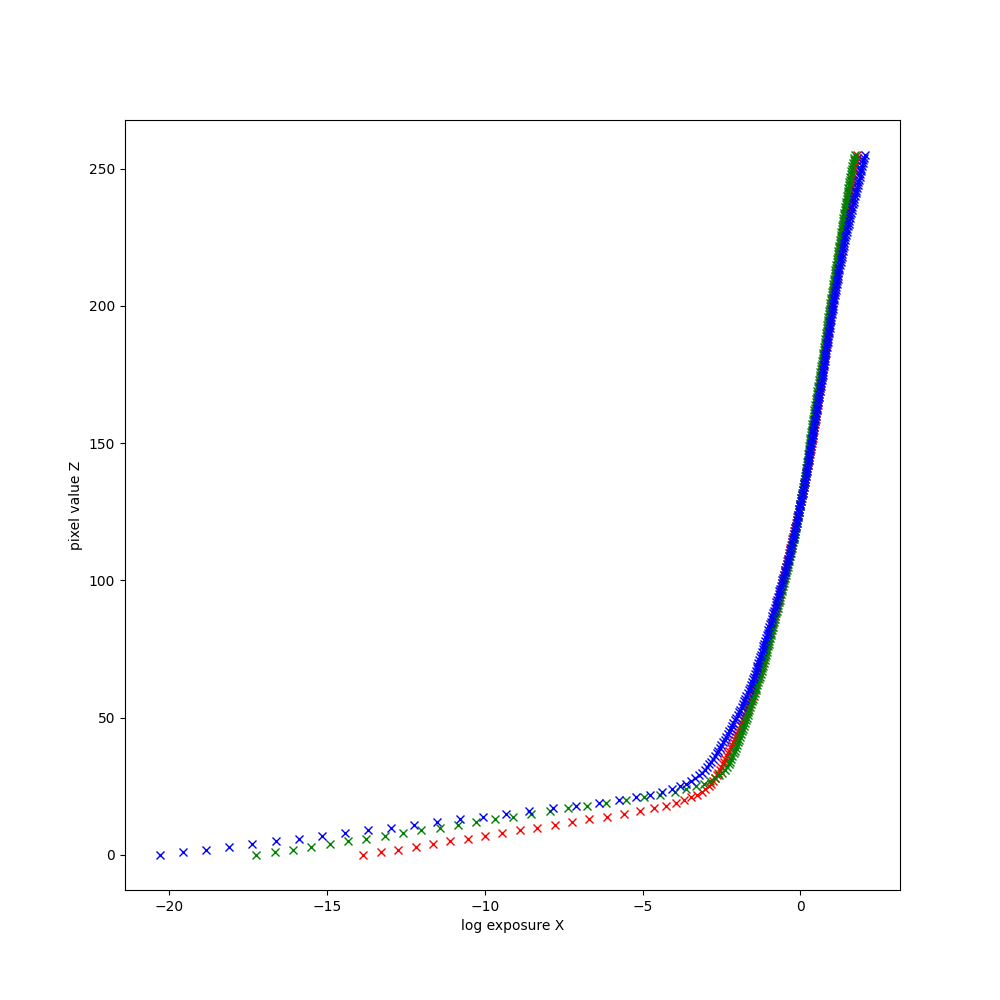
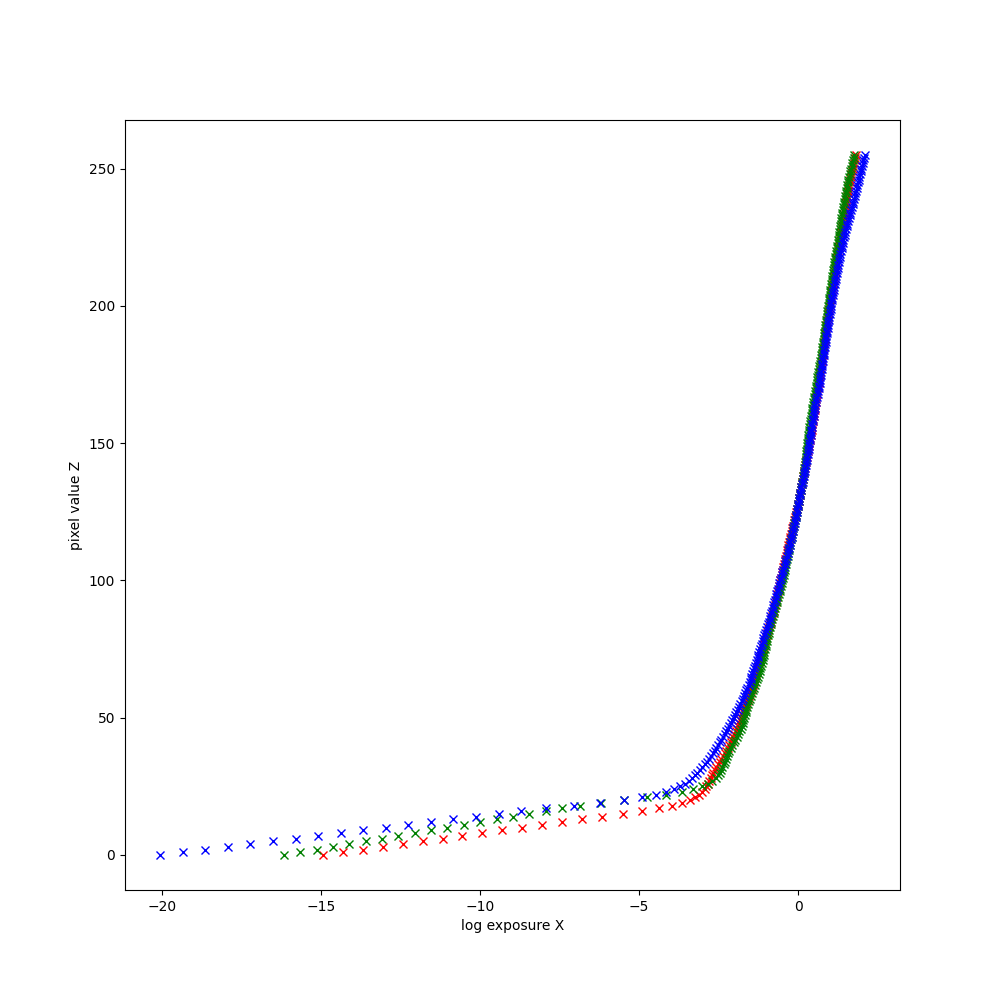
fixing tone mapping

diff --git a/HDR.py b/HDR.py
@@ -6,51 +6,9 @@ import math
 import numpy as np
 import matplotlib.pyplot as plt
 
-# MTB implementation
-def median_threshold_bitmap_alignment(img_list):
-    median = [np.median(img) for img in img_list]
-    binary_thres_img = [cv2.threshold(img_list[i], median[i], 255, cv2.THRESH_BINARY)[1] for i in range(len(img_list))]
-    mask_img = [cv2.inRange(img_list[i], median[i]-20, median[i]+20) for i in range(len(img_list))]
- 
-    plt.imshow(mask_img[0], cmap='gray')
-    plt.show()
-    
-    max_offset = np.max(img_list[0].shape)
-    levels = 5
-
-    global_offset = []
-    for i in range(0, len(img_list)):
-        offset = [[0,0]]
-        for level in range(levels, -1, -1):
-            scaled_img = cv2.resize(binary_thres_img[i], (0, 0), fx=1/(2**level), fy=1/(2**level))
-            ground_img = cv2.resize(binary_thres_img[0], (0, 0), fx=1/(2**level), fy=1/(2**level))
-            ground_mask = cv2.resize(mask_img[0], (0, 0), fx=1/(2**level), fy=1/(2**level))
-            mask = cv2.resize(mask_img[i], (0, 0), fx=1/(2**level), fy=1/(2**level))
-            
-            level_offset = [0, 0]
-            diff = float('Inf')
-            for y in [-1, 0, 1]:
-                for x in [-1, 0, 1]:
-                    off = [offset[-1][0]*2+y, offset[-1][1]*2+x]
-                    error = 0
-                    for row in range(ground_img.shape[0]):
-                        for col in range(ground_img.shape[1]):
-                            if off[1]+col < 0 or off[0]+row < 0 or off[1]+col >= ground_img.shape[1] or off[0]+row >= ground_img.shape[1]:
-                                continue
-                            if ground_mask[row][col] == 255:
-                                continue
-                            error += 1 if ground_img[row][col] != scaled_img[y+off[0]][x+off[1]] else 0
-                    if error < diff:
-                        level_offset = off
-                        diff = error
-            offset += [level_offset]
-        global_offset += [offset[-1]]
-    return global_offset
-
-
 def hdr_debvec(img_list, exposure_times, number_of_samples_per_dimension=20):    
     B = np.log(exposure_times) #get the logarithm of exposures
-    l = 100      # l is lambda, the constant that determines the amount of smoothness
+    l = 50      # l is lambda, the constant that determines the amount of smoothness
     w = [z if z <= 0.5*255 else 255-z for z in range(256)]  #create the weighted function to emphasize the middle points
 
     #samples = []
@@ -113,8 +71,8 @@ def response_curve_solver(Z, B, l, w):
 
     # Solve the system using SVD
     x = np.linalg.lstsq(A, b)[0]
-    g = x[:256]
-    lE = x[256:]
+    g = x[:n]
+    lE = x[n:]
 
     return g, lE
 
@@ -157,19 +115,19 @@ def construct_hdr(img_list, response_curve, exposure_times):
     return hdr
 
 #not using opencv
-# def tonemap(hdr):
-#     gamma = 2
-#     tonemap = cv2.createTonemapDrago(gamma)
-#     ldr = tonemap.process(hdr)
-#     return ldr * 255
-
 def tonemap(hdr):
-    #amplify low irradiance more than high irradiance
-    gamma = 1.3
-    r1 = 1 - np.exp(-hdr * gamma)     #low irradiance
-    r2 = 0.6 + 0.07 * hdr             #high irradiance
-    ldr = np.minimum(r1, r2)
-    return np.clip(ldr * 255, 0, 255).astype('uint8')
+    gamma = 7
+    tonemap = cv2.createTonemap(gamma)
+    ldr = tonemap.process(hdr)
+    return (ldr * 255).astype('uint8')
+
+# def tonemap(hdr):
+#     #amplify low irradiance more than high irradiance
+#     gamma = 1.3
+#     r1 = 1 - np.exp(-hdr * gamma)     #low irradiance
+#     r2 = 0.6 + 0.07 * hdr             #high irradiance
+#     ldr = np.minimum(r1, r2)
+#     return np.clip(ldr * 255, 0, 255).astype('uint8')
 
 # main
 if __name__ == '__main__': 
@@ -221,16 +179,17 @@ if __name__ == '__main__':
     cv2.imwrite('hdr.png', hdr)
     print('done')
 
-    #save tonemap graph
-    print('Tonemapping.... ', end='')
-    x = np.arange(0, 6, 0.1)
-    y = tonemap(x)
-    plt.figure(figsize=(10, 10))
-    plt.plot(x, y)
-    plt.savefig('tonemapping.png')
-    print('done')
+    # #save tonemap graph
+    # print('Tonemapping.... ', end='')
+    # x = np.arange(0, 6, 0.1)
+    # y = tonemap(x)
+    # plt.figure(figsize=(10, 10))
+    # plt.plot(x, y)
+    # plt.savefig('tonemapping.png')
+    # print('done')
 
     print('Saving LDR image .... ', end='')
     ldr = tonemap(hdr)
     cv2.imwrite('ldr.png', ldr)
     print('done')
+
